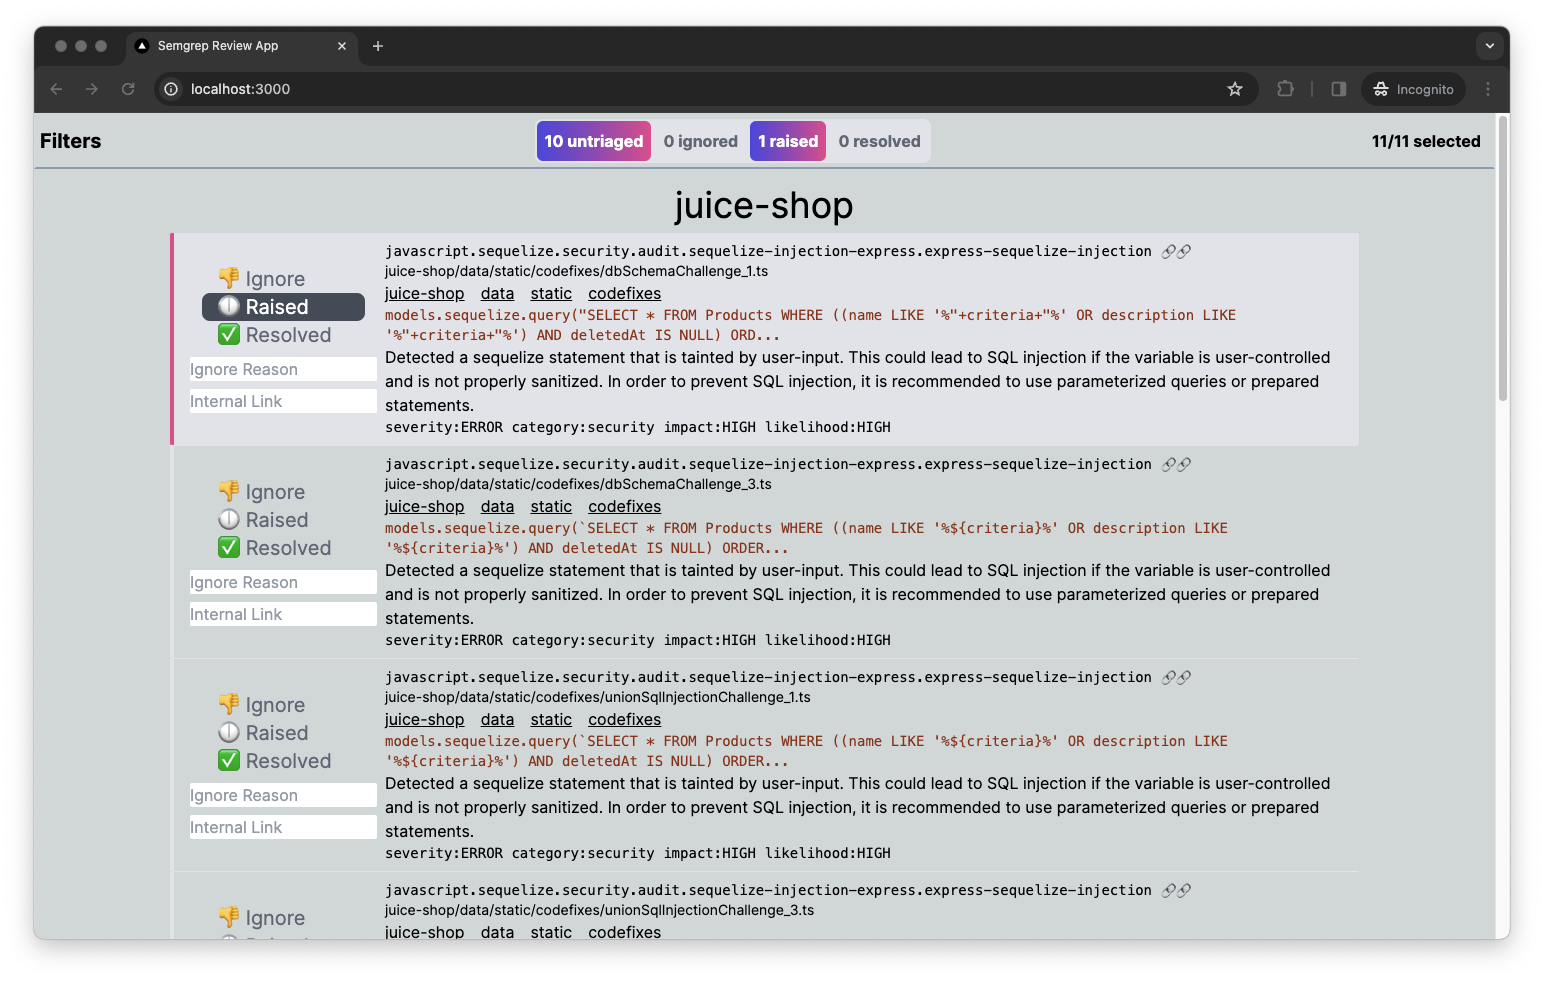
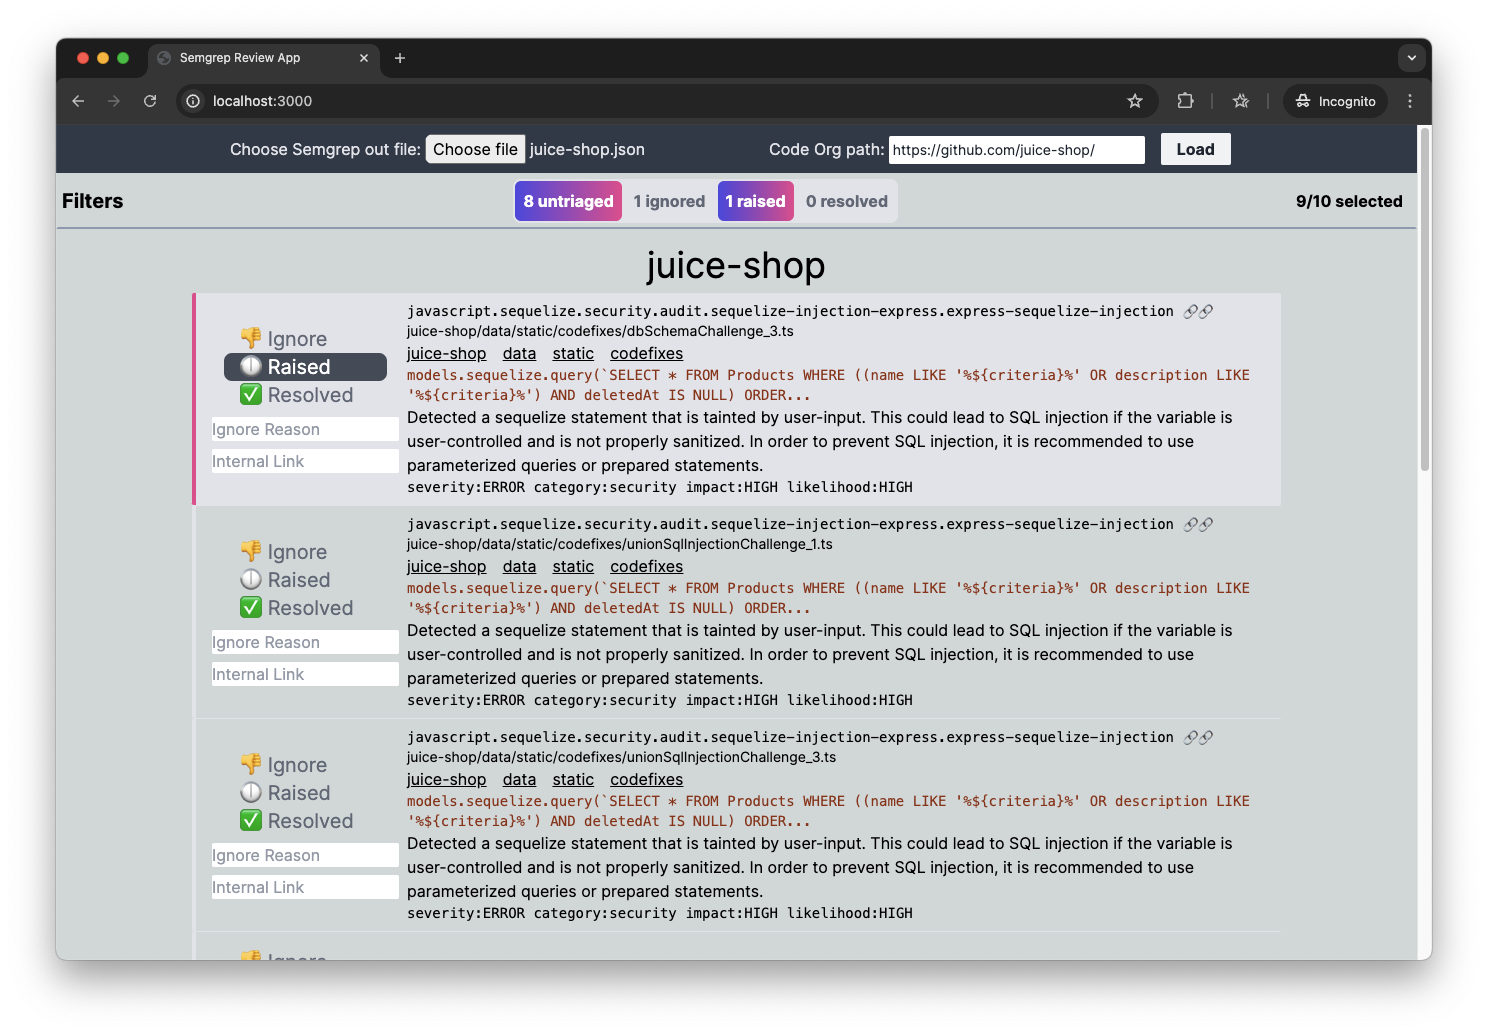
File picker bg gray

Changed region(s): [[0.0, 0.0, 0.9892, 0.9786], [0.9583, 0.948, 0.9892, 0.9786]]

diff --git a/src/app/fileInput.js b/src/app/fileInput.js
@@ -52,15 +52,15 @@ export default function FileInput({ updateFileName, updateFileJSON, updateBaseSc
     }
 
     return (
-        <div className="bg-bg-top-gray border-bg-top-gray bg-opacity-100 border-b-slate-400">
-            <form onSubmit={handleSubmit} className="grow p-2">
+        <div className="text-center text-gray-200 bg-gray-700 p-2">
+            <form onSubmit={handleSubmit}>
                 <label htmlFor="file" className="px-1"> Choose Semgrep out file:</label >
-                <input type="file" ref={inputFile} id="file" name="Semgrep Output File" accept=".json" />
+                <input type="file" ref={inputFile} id="file" name="Semgrep Output File" accept=".json" className="full rounded-lg cursor-pointer focus:outline-none" />
 
                 <label htmlFor="scmPath" className="px-1">Code Org path:</label>
-                <input type="text" ref={scmPath} name="scmPath" placeholder="https://gitlab.com/myorg" className="w-64 text-sm" />
+                <input type="text" ref={scmPath} name="scmPath" placeholder="https://gitlab.com/myorg" className="w-64 text-sm rounded-sm text-gray-800 py-1 px-1" />
 
-                <button type="submit" value="Submit" className="bg-blue-500 hover:bg-blue-700 text-white font-bold mx-4 px-4 rounded-full" >Load</button>
+                <button type="submit" value="Submit" className="bg-gray-100 text-gray-800 font-bold mx-4 px-4 py-1 rounded-sm hover:bbox-decoration-slice hover:bg-gradient-to-r hover:from-indigo-600 hover:to-pink-500 hover:text-white" >Load</button>
             </form >
         </div >
     );

diff --git a/src/app/page.js b/src/app/page.js
@@ -53,9 +53,7 @@ export default async function Home() {
 
   return (
     <div>
-      <div className="w-full grow text-center item-center border-2 bg-bg-top-gray border-bg-top-gray bg-opacity-100 border-b-slate-400">
-        <FileInput updateFileName={updateFileName} updateFileJSON={updateFileJSON} updateBaseScmPath={updateBaseScmPath} className="relative pb-10 min-h-screen"></FileInput>
-      </div>
+      <FileInput updateFileName={updateFileName} updateFileJSON={updateFileJSON} updateBaseScmPath={updateBaseScmPath} className="relative pb-10 min-h-screen"></FileInput>
       {collectionName &&
         <FilterResults
           results={JSON.parse(JSON.stringify(results))}

diff --git a/README.md b/README.md
@@ -2,7 +2,7 @@
 
 This is a Next.js app to provide a UI to triage the JSON output of a Semgrep CLI scan.
 
-It uses Mongo DB to store the results. Simply select Semgrep output JSON file to load it in the UI. Results are loaded from this file to Mongo DB for persistance and triage. The name of the file is used to construct group name in the probable Gitlab URLs when presenting the results for triage. Code org path is another input which is used to construct the links to the code in the issues.
+Simply select Semgrep output JSON file in the UI to load it. Results are loaded from this file to Mongo DB for persistance and triage. The name of the file is used to construct group name in the probable Gitlab URLs when presenting the results for triage. Code org path is another input which is used to construct the links to the code in the issues.
 
 ![Screenshot](./static/screenshot.png)
 
